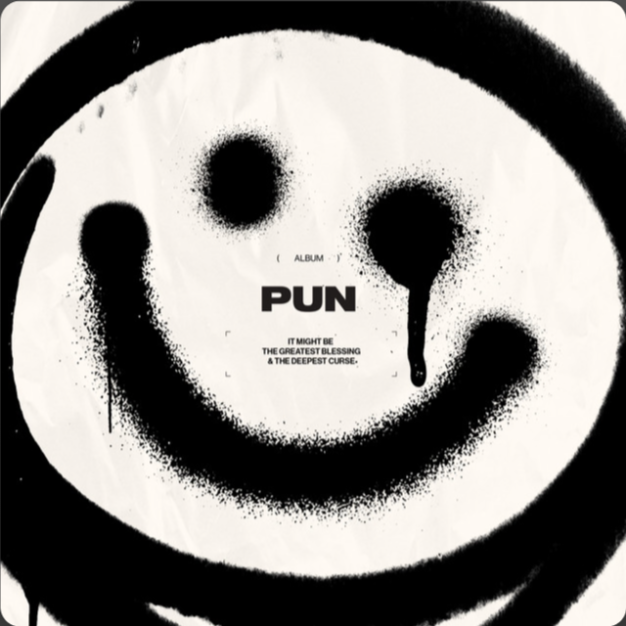
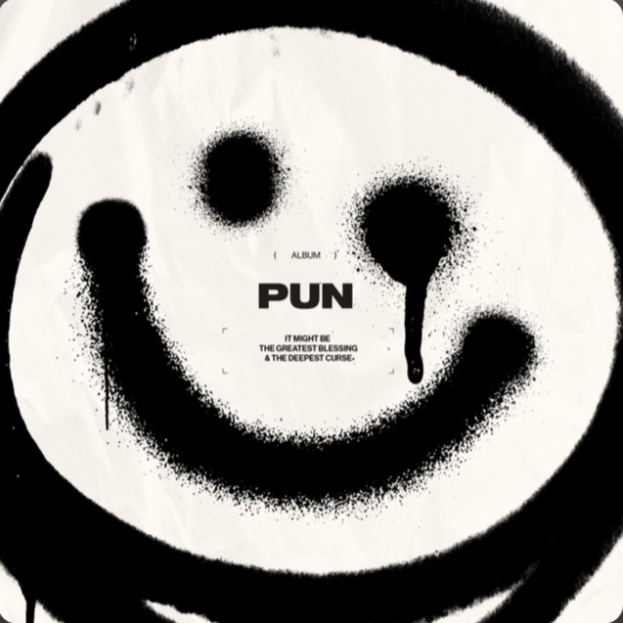
song 2

diff --git a/script.js b/script.js
@@ -5,7 +5,7 @@ const startDate = new Date("2025-11-01");
 // Customize content for each day (image, text, emoji)
 const daysContent = [
     {img: "images/song1.png", text: "วันแรกของเดือน 🌞"},
-    {img: "images/2.jpg", text: "เพลงนี้เขาเคยเอาลงโน้ตด้วย \n เหมือนเองก็ลงโน้ตว่า \n คิดเหมือนกัน 🥰"},
+    {img: "images/song2.png", text: "เพลงนี้เขาเคยเอาลงโน้ตด้วย \n เหมือนเองก็ลงโน้ตว่า \n คิดเหมือนกัน 🥰"},
     {img: "images/3.jpg", text: "Smile today 😘"},
     {img: "images/3.jpg", text: "Smile today 😘"},
     {img: "images/3.jpg", text: "Smile today 😘"},

diff --git a/style.css b/style.css
@@ -1,6 +1,6 @@
 body {
     font-family: 'Kanit', sans-serif;
-    background-color: #ffe6e6;
+    background-color: #e6f1ff;
     margin: 0;
     padding: 0;
     display: flex;
@@ -12,7 +12,7 @@ h1 {
     text-align: center;
     margin: 20px 0;
     font-size: 45px;
-    color: #d6336c;
+    color: #3374d6;
 }
 
 .calendar {
@@ -26,7 +26,7 @@ h1 {
 
 .day {
     position: relative;
-    background-color: #ffb3c6;
+    background-color: #b3cbff;
     border-radius: 12px;
     height: 180px;
     display: flex;
